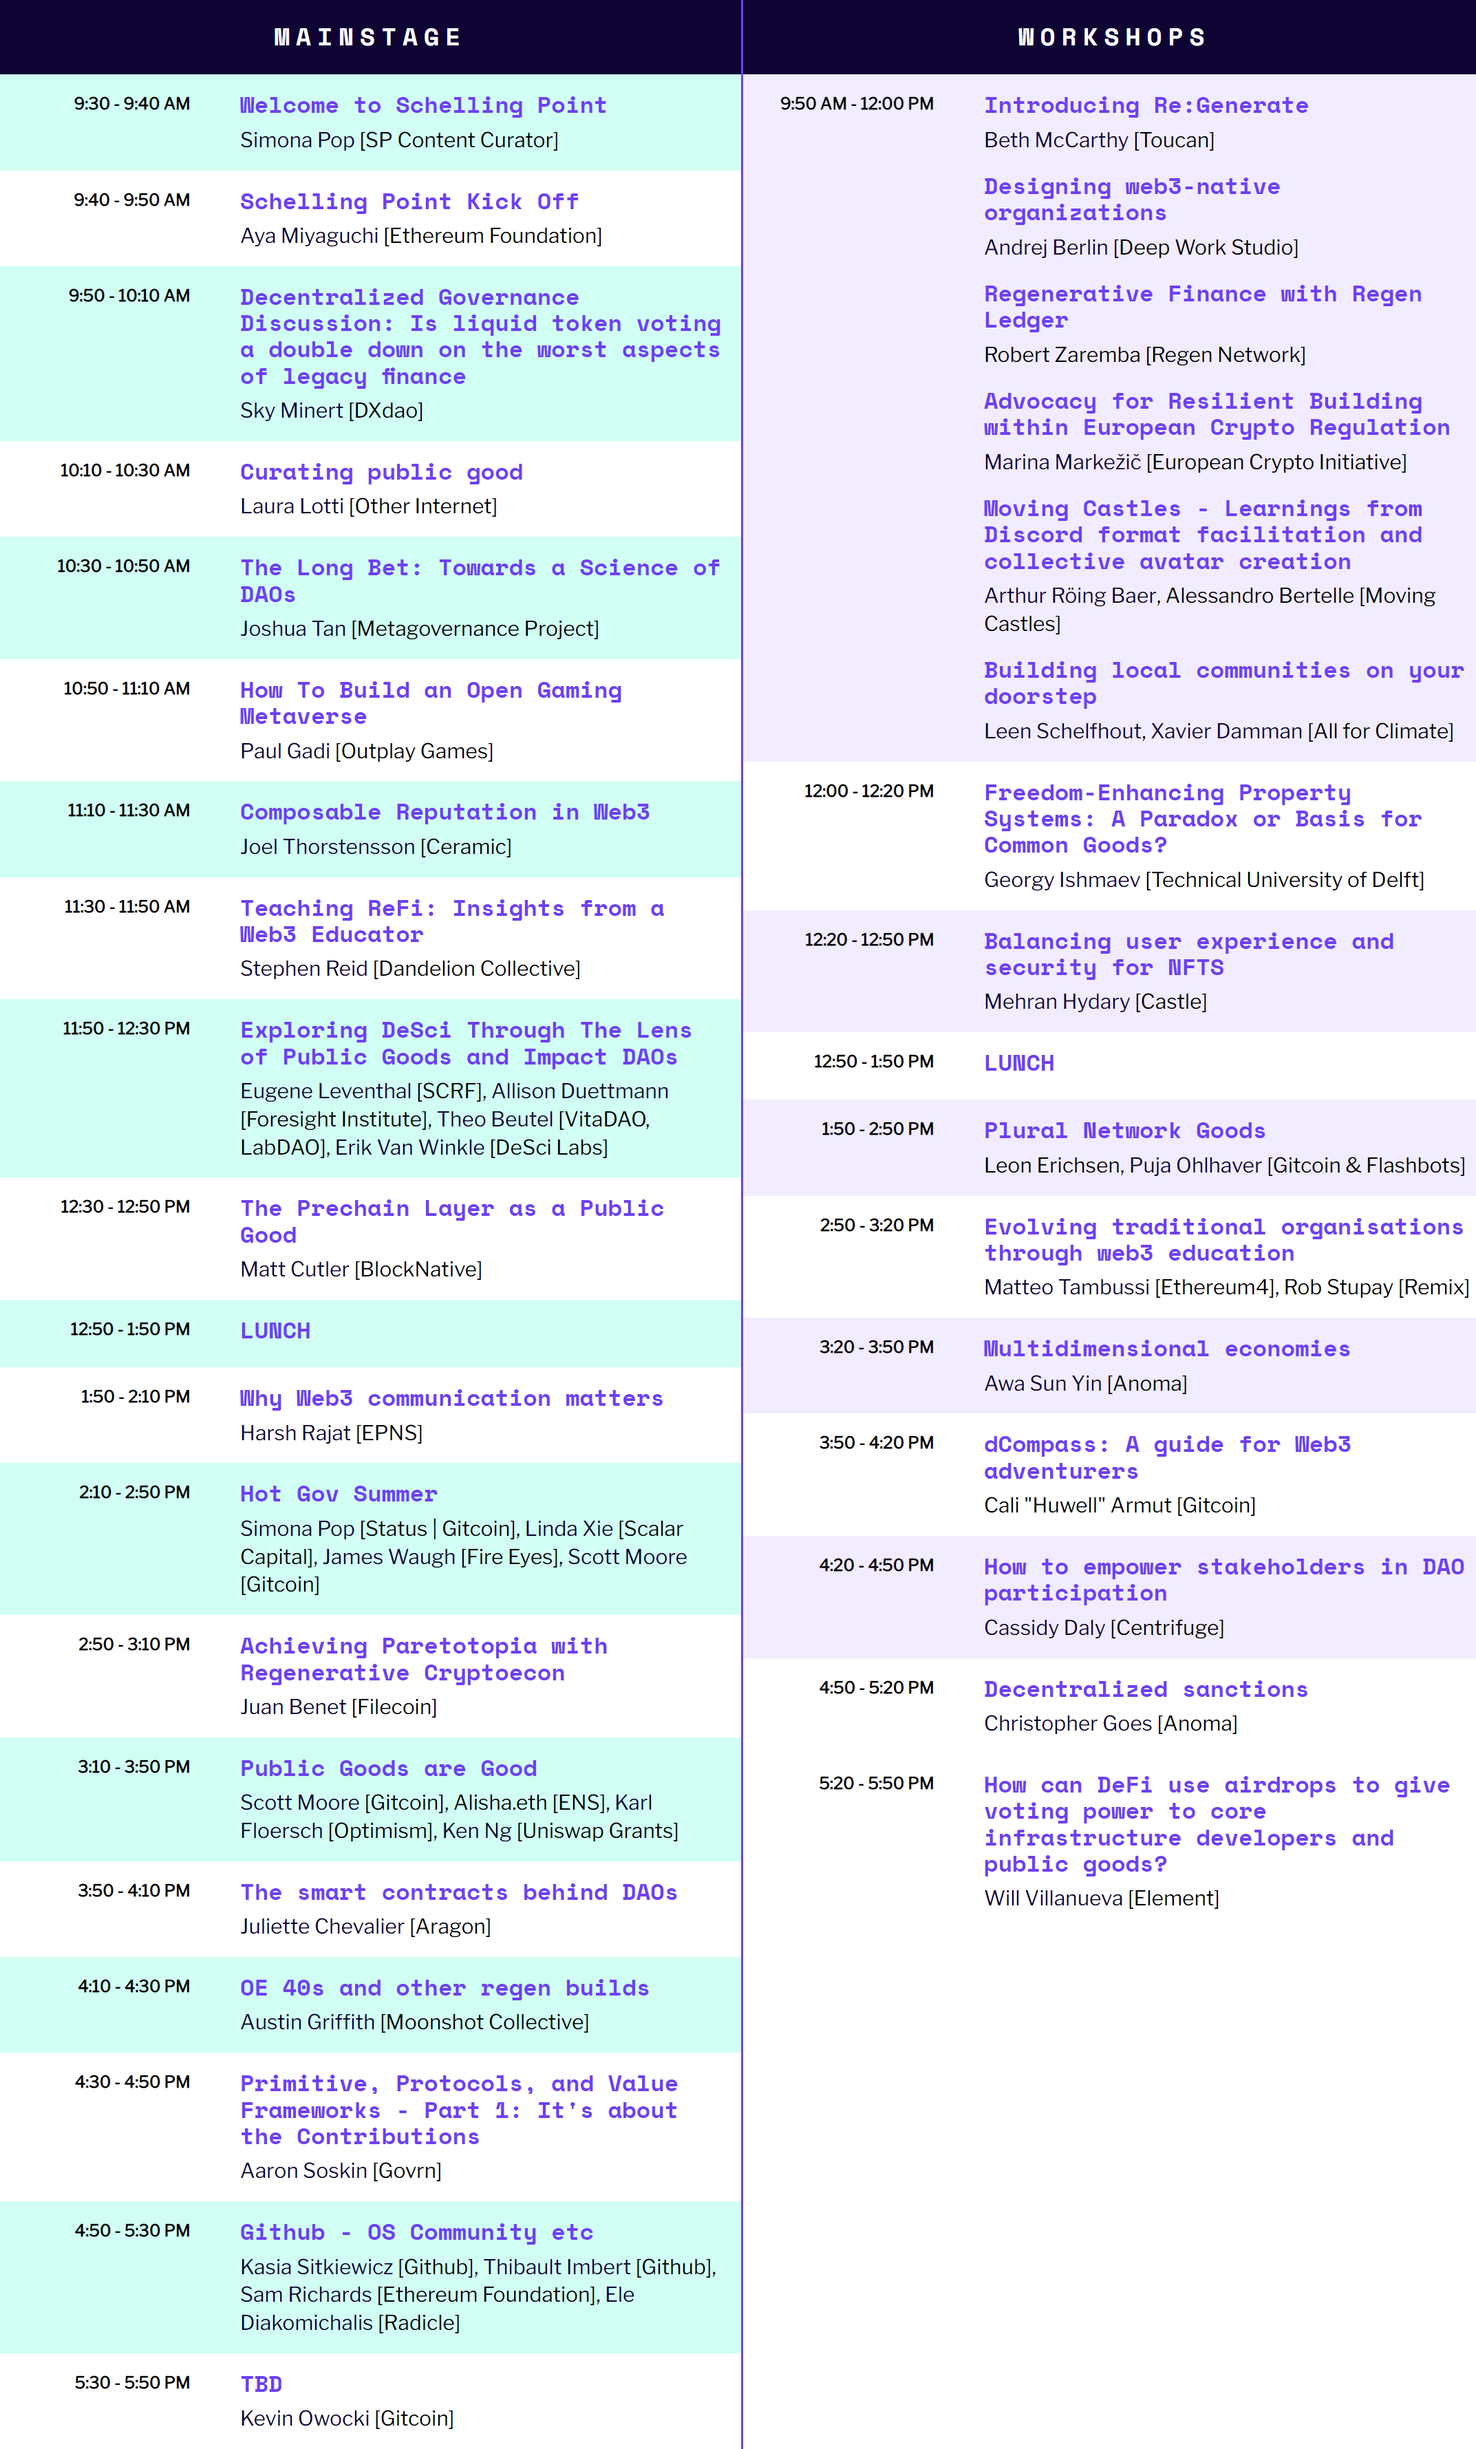
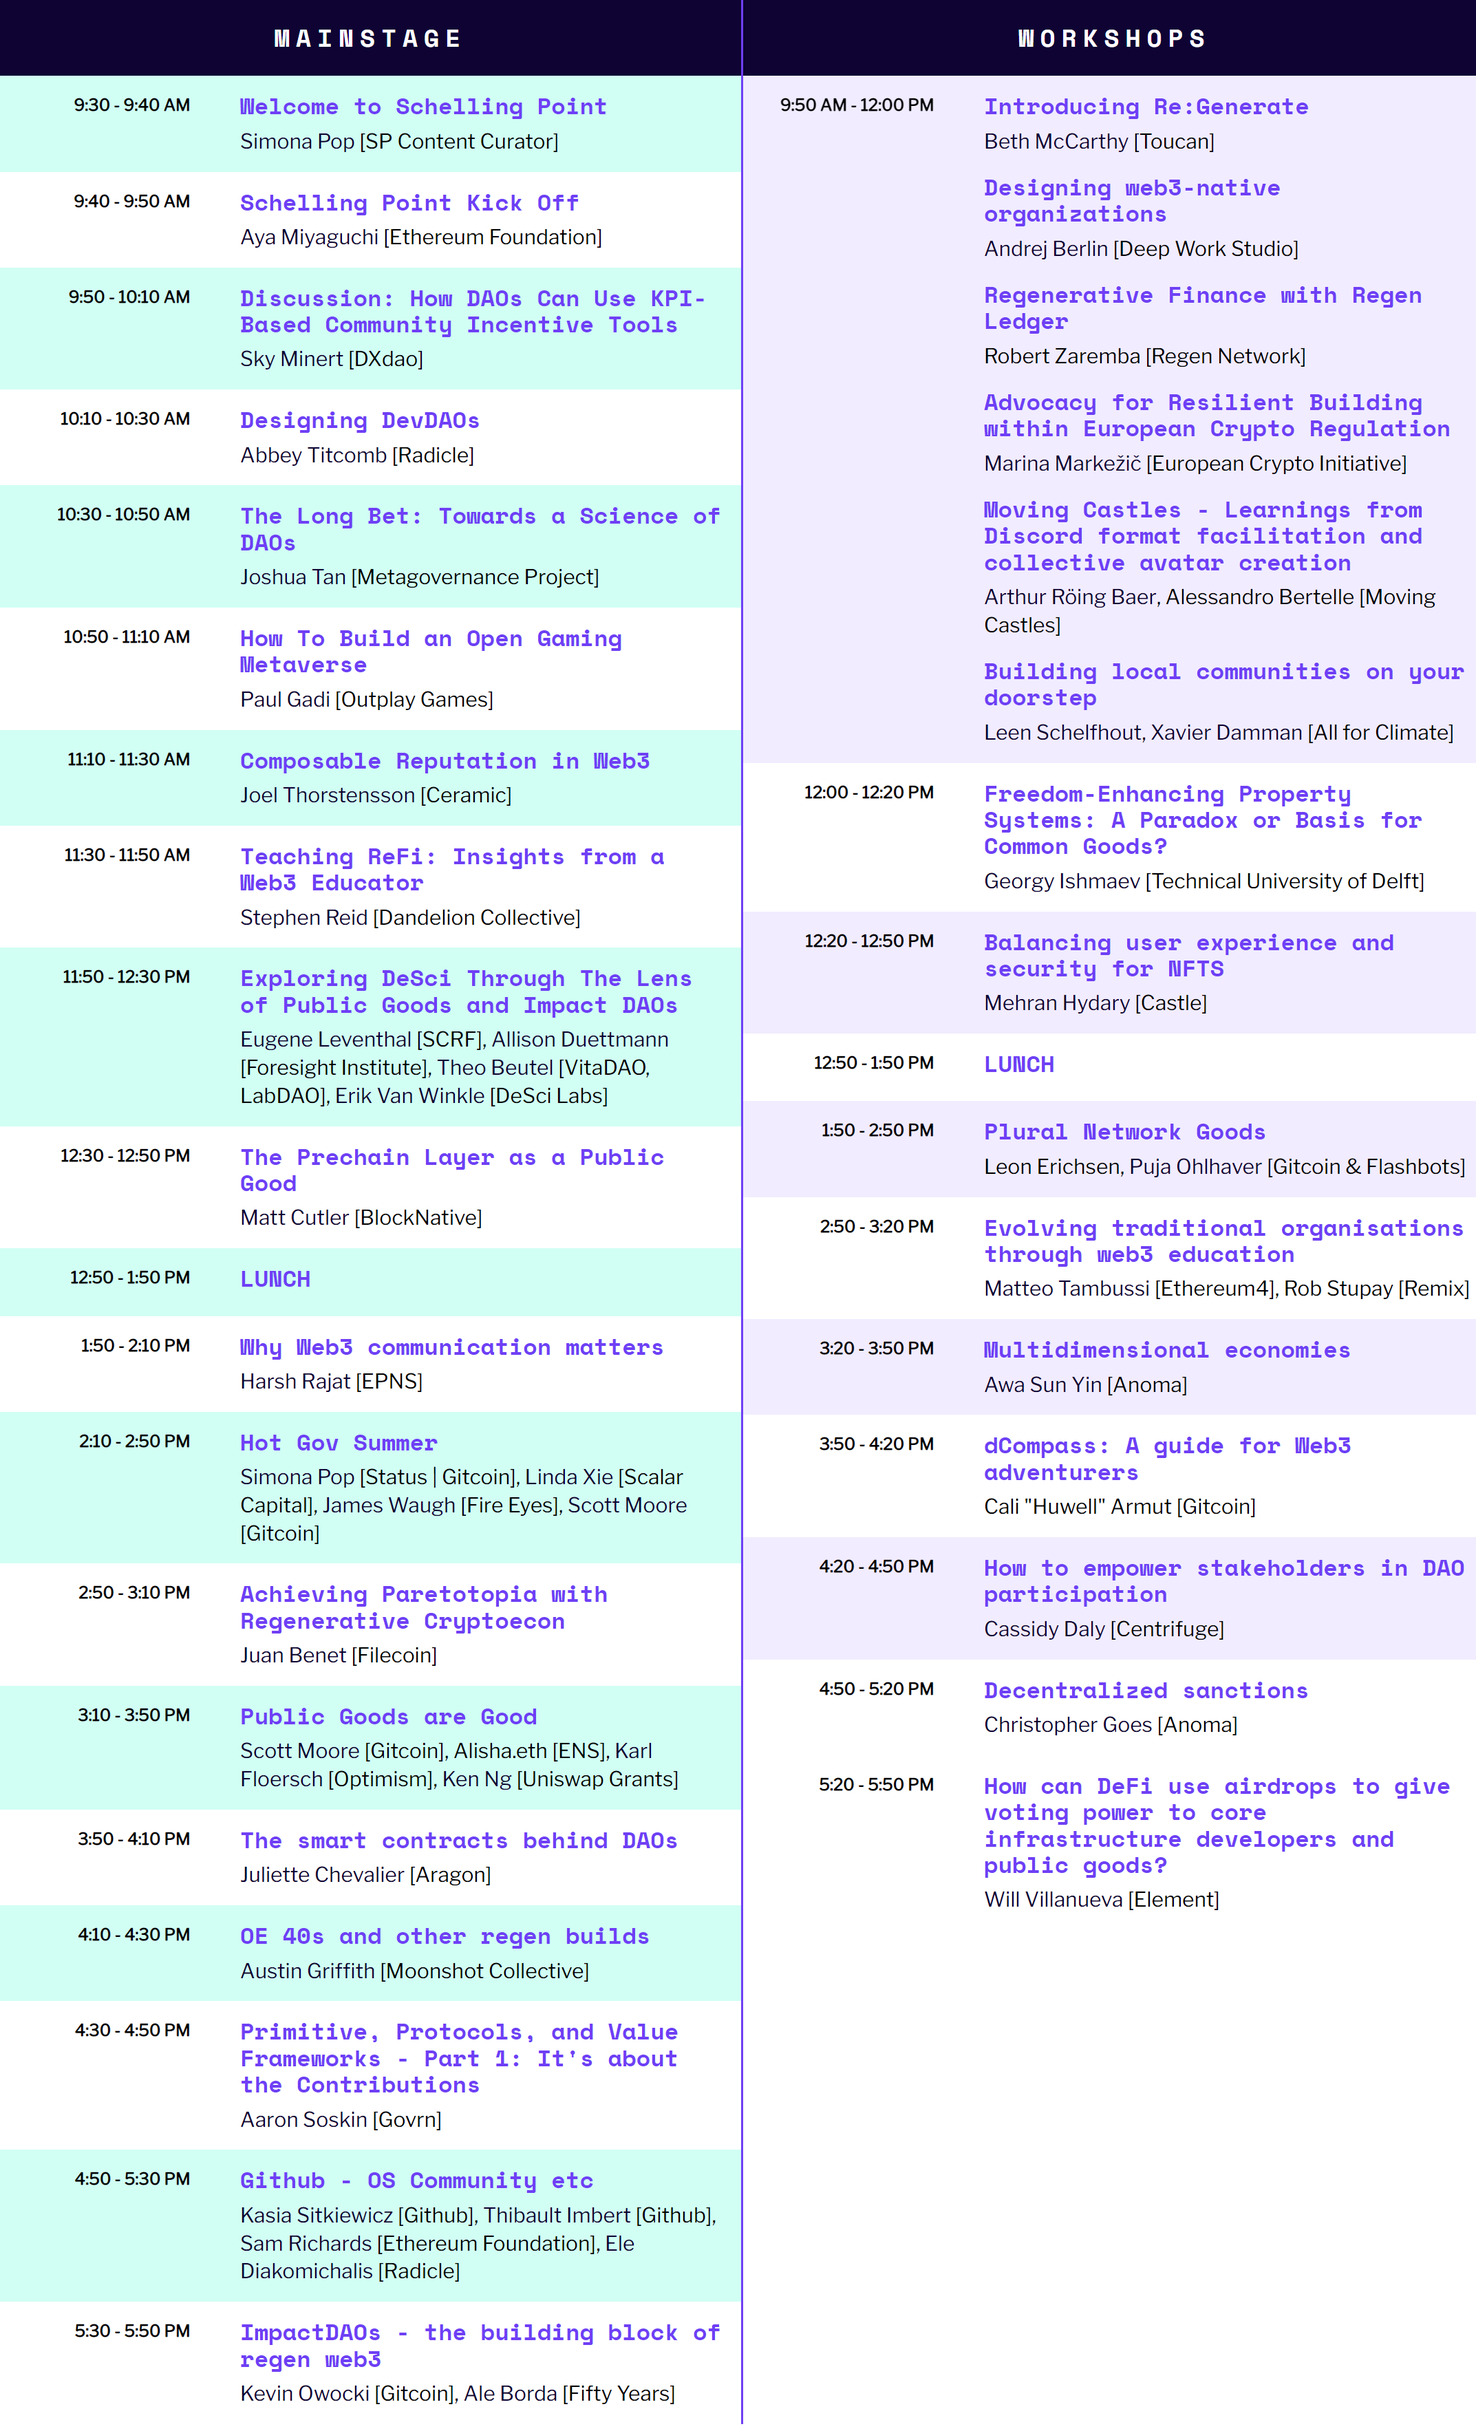
changed agenda and png, removed speaker

diff --git a/index.html b/index.html
@@ -302,18 +302,6 @@
                     </div>
                 </div>
                 <div class="speaker-container">
-                    <a href="https://twitter.com/lottiland" target="_blank" class="twitter-container">
-                        <img class="avatar coverfit" loading="lazy" data-src="./images/speakers_nano/speaker_template.svg" src="./images/speakers_nano/Laura Lotti.svg" alt="Laura Lotti" width="200" height="200">
-                        <svg class="twitter" title="twitter logo" viewBox="0 0 48 48" width="40px" height="40px" alt="twitter logo">
-                            <use xlink:href="#twitter"></use>
-                        </svg>
-                    </a>
-                    <div class="speaker-description">
-                        <p class="speaker-name">Laura<br>Lotti</p>
-                        <p class="role">Other Internet</p>
-                    </div>
-                </div>
-                <div class="speaker-container">
                     <a href="https://twitter.com/mcutler" target="_blank" class="twitter-container">
                         <img class="avatar coverfit" loading="lazy" data-src="./images/speakers_nano/speaker_template.svg" src="./images/speakers_nano/Matt Cutler.svg" alt="Matt Cutler" width="200" height="200">
                         <svg class="twitter" title="twitter logo" viewBox="0 0 48 48" width="40px" height="40px" alt="twitter logo">
@@ -601,15 +589,15 @@
                     <div class="talk green-bg">
                         <p class="talk-hour">9:50 - 10:10 AM</p>
                         <div class="talk-description">
-                            <p class="title">Decentralized Governance Discussion: Is liquid token voting a double down on the worst aspects of legacy finance </p>
+                            <p class="title">Discussion: How DAOs Can Use KPI-Based Community Incentive Tools</p>
                             <p class="name"><a class="speaker-link left purple-link" href="https://twitter.com/sminert" target="_blank">Sky Minert</a> [DXdao]</p>
                         </div>
                     </div>
                     <div class="talk">
                         <p class="talk-hour">10:10 - 10:30 AM</p>
                         <div class="talk-description">
-                            <p class="title">Curating public good </p>
-                            <p class="name"><a class="speaker-link left purple-link" href="https://twitter.com/lottiland" target="_blank">Laura Lotti</a> [Other Internet]</p>
+                            <p class="title">Designing DevDAOs</p>
+                            <p class="name"><a class="speaker-link left purple-link" href="https://twitter.com/abbey_titcomb" target="_blank">Abbey Titcomb</a> [Radicle]</p>
                         </div>
                     </div>
                     <div class="talk green-bg">
@@ -730,8 +718,8 @@
                     <div class="talk">
                         <p class="talk-hour"> 5:30 - 5:50 PM</p>
                         <div class="talk-description">
-                            <p class="title">TBD</p>
-                            <p class="name"><a class="speaker-link left purple-link" href="https://twitter.com/owocki" target="_blank">Kevin Owocki</a> [Gitcoin]</p>
+                            <p class="title">ImpactDAOs - the building block of regen web3</p>
+                            <p class="name"><a class="speaker-link left purple-link" href="https://twitter.com/owocki" target="_blank">Kevin Owocki</a> [Gitcoin], <a class="speaker-link left purple-link" href="https://twitter.com/aleborda21" target="_blank">Ale Borda</a> [Fifty Years]</p>
                         </div>
                     </div>
                 </div>
